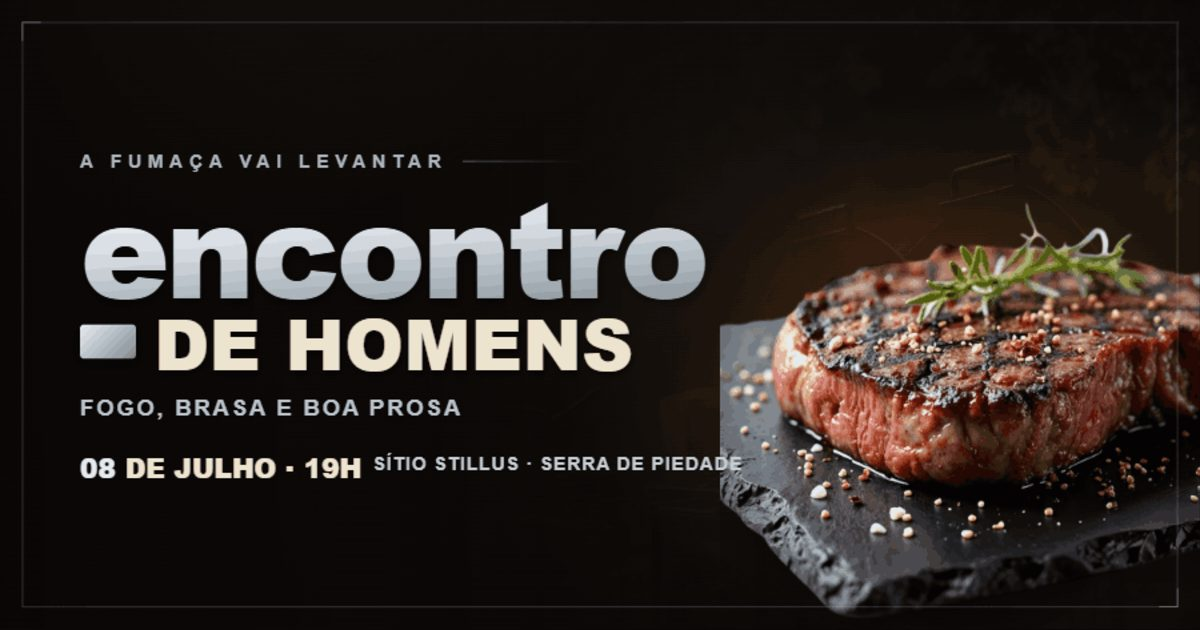
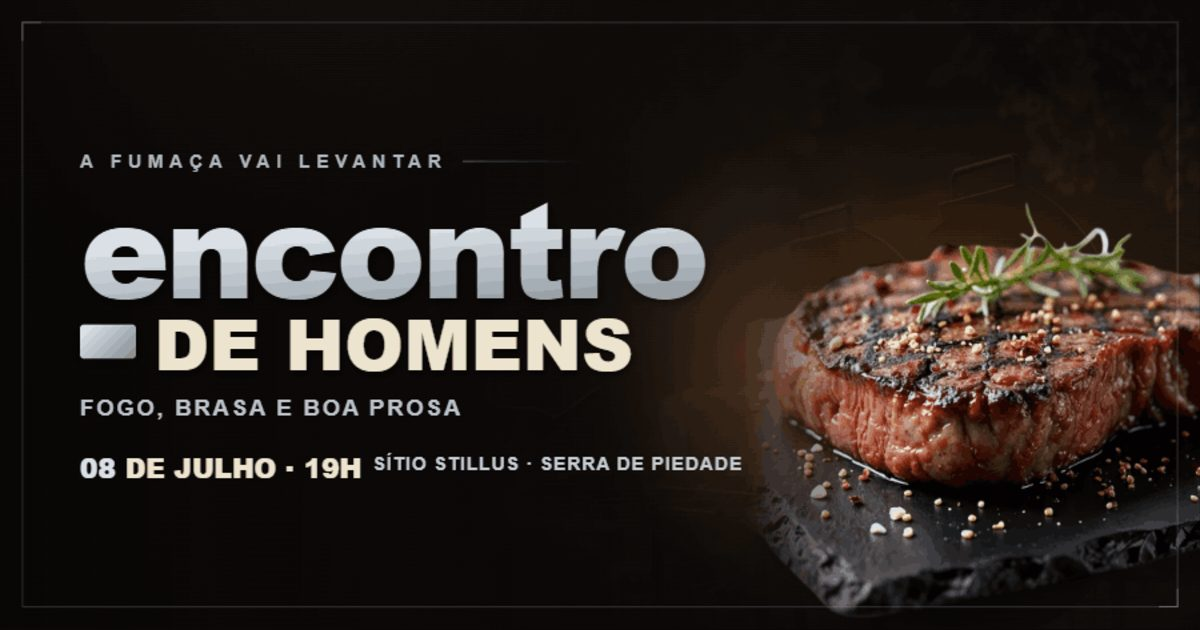
Adjust Open Graph image positioning

Changed region(s): [[0.5858, 0.4524, 0.74, 0.9651]]

diff --git a/og.html b/og.html
@@ -34,11 +34,19 @@
     width: 700px; height: 500px;
     background: radial-gradient(50% 50% at 50% 50%, rgba(224,128,48,0.30) 0%, rgba(224,128,48,0) 70%);
   }
+  .edge-glow {
+    position: absolute; z-index: 2; right: 300px; top: 56%; transform: translateY(-50%);
+    width: 360px; height: 540px; pointer-events: none;
+    background: radial-gradient(46% 50% at 55% 50%, rgba(224,128,48,0.18) 0%, rgba(150,110,70,0.12) 38%, rgba(224,128,48,0) 72%);
+    filter: blur(18px);
+  }
   .steak {
     position: absolute; z-index: 3; right: -120px; top: 56%; transform: translateY(-50%);
     width: 600px;
-    -webkit-mask-image: radial-gradient(70% 62% at 50% 54%, #000 66%, rgba(0,0,0,0) 100%);
-            mask-image: radial-gradient(70% 62% at 50% 54%, #000 66%, rgba(0,0,0,0) 100%);
+    -webkit-mask-image: radial-gradient(70% 62% at 50% 54%, #000 66%, rgba(0,0,0,0) 100%), linear-gradient(to right, transparent 0%, transparent 4%, #000 26%);
+            mask-image: radial-gradient(70% 62% at 50% 54%, #000 66%, rgba(0,0,0,0) 100%), linear-gradient(to right, transparent 0%, transparent 4%, #000 26%);
+    -webkit-mask-composite: source-in;
+            mask-composite: intersect;
     filter: drop-shadow(0 30px 40px rgba(0,0,0,0.7));
   }
   .steak img { width: 100%; display: block; }
@@ -87,6 +95,7 @@
     <div class="bbq"></div>
     <div class="scrim"></div>
     <div class="glow"></div>
+    <div class="edge-glow"></div>
     <div class="steak"><img src="assets/steak.png" alt=""></div>
 
     <div class="pad">